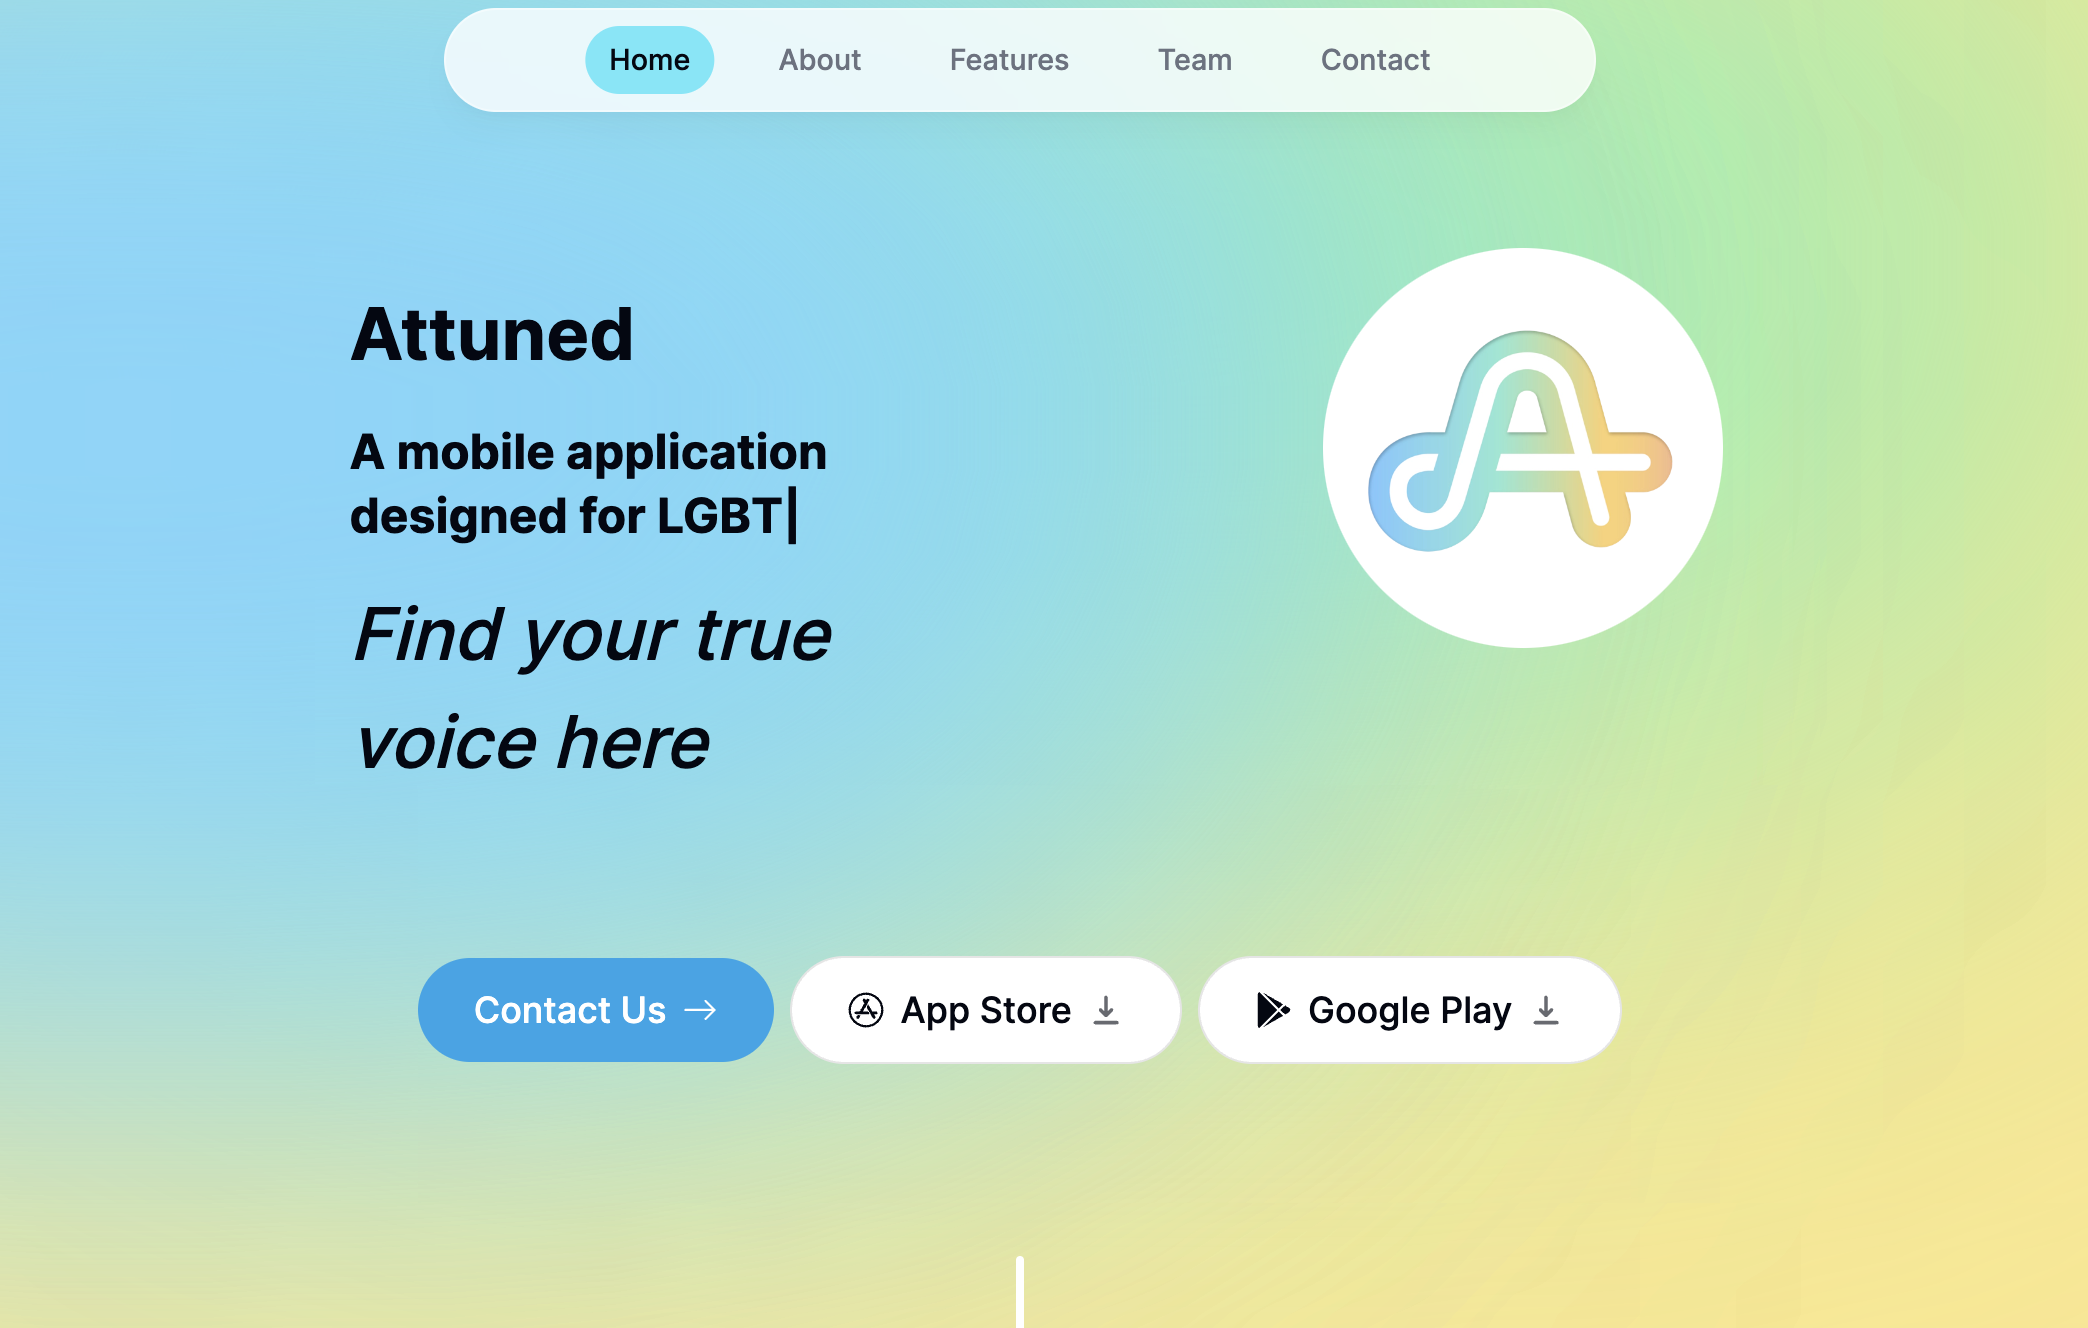
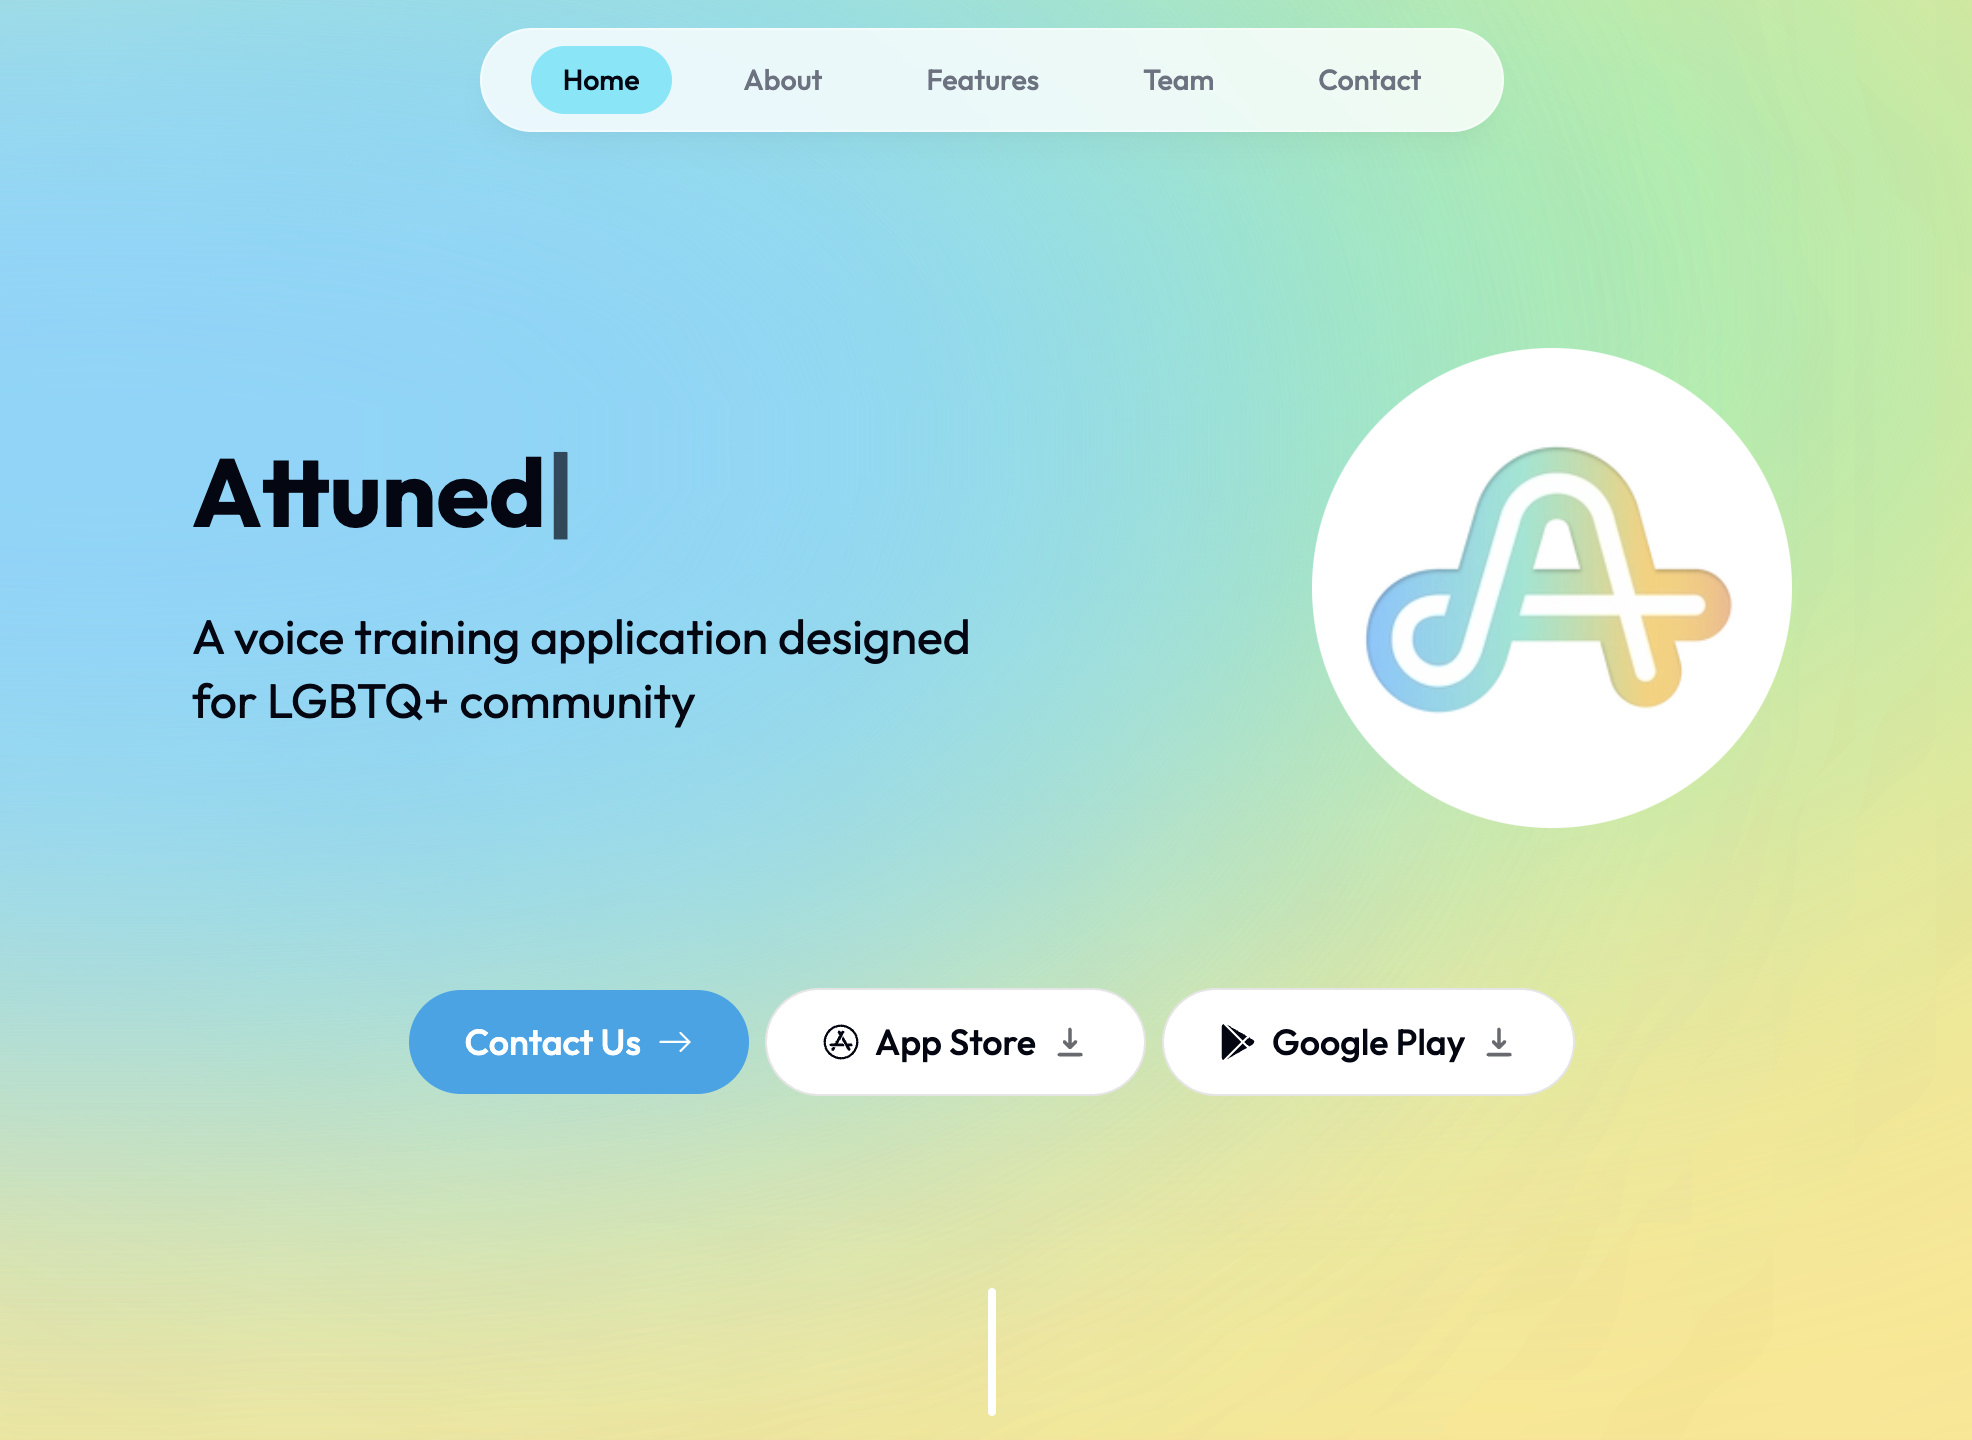
Fixed: intro details

diff --git a/components/intro.tsx b/components/intro.tsx
@@ -7,7 +7,6 @@ import { FaAppStore } from "react-icons/fa";
 import { FaGooglePlay } from "react-icons/fa";
 import { BsArrowRight } from "react-icons/bs";
 import { HiDownload } from "react-icons/hi";
-import { LuGithub } from "react-icons/lu";
 import { useSectionInView } from "@/lib/hooks";
 import { useActiveSectionContext } from "@/context/active-section-context";
 import { ReactTyped } from "react-typed";
@@ -81,12 +80,6 @@ export default function Intro() {
           <FaGooglePlay />
           Google Play{" "}
           <HiDownload className="opacity-60 group-hover:translate-y-1 transition" />
-        </Link>
-        <Link
-          className="group bg-white p-5 flex items-center rounded-full outline-none focus:scale-110 hover:scale-110 active:scale-105 transition cursor-pointer borderBlack dark:bg-white/10"
-          href=""
-        >
-          <LuGithub />
         </Link>
       </div>
     </section>

diff --git a/components/contact.tsx b/components/contact.tsx
@@ -31,7 +31,7 @@ export default function Contact() {
     >
       <SectionHeading>Contact Us</SectionHeading>
       <p>
-        or you can directly send and email to{" "}
+        or you can directly send an email to{" "}
         <a href="mailto:attunedvoice@gmail.com"
         className="text-gray-500">attunedvoice@gmail.com</a>
       </p>

diff --git a/README.md b/README.md
@@ -1,7 +1,27 @@
-## Attuned 
-**This is the landing page for the Attuned project.**
+## Attuned
+
+**This is the landing website for the [Attuned](https://attuned-gamma.vercel.app/)**
 
 ![Attuned](./public/attuned.png)
 
+### Project Overview
 
-Please visit the live site at: [https://attuned-gamma.vercel.app/](https://attuned-gamma.vercel.app/)
+A mobile application that helps LGBTQ+ users change their voice to match gender identity through voice training lessons and exercises.
+
+### Tech Stack
+
+| Architecture     | Tech Stack                                         |
+| ---------------- | -------------------------------------------------- |
+| Frontend         | React Native                                       |
+| Backend          | Flask, Python                                      |
+| Data Layer       | Firebase Firestore, Firebase Storage, AsyncStorage |
+| Authentication   | Clerk Auth                                         |
+| State Management | Context API                                        |
+| Deployment       | Vercel                                             |
+
+### App Download
+
+Application is available for download on both IOS and Android platforms.
+
+- [IOS](https://apps.apple.com/us/app/attuned/id1580190131)
+- [Android](https://play.google.com/store/apps/details?id=com.attuned)
